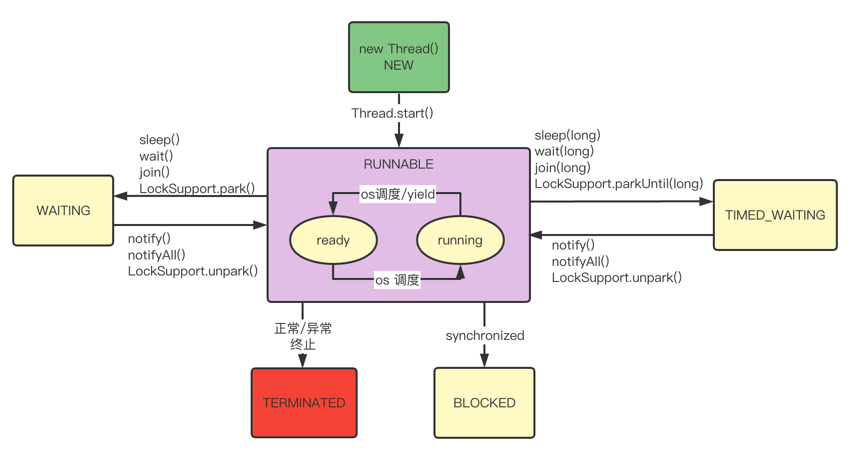
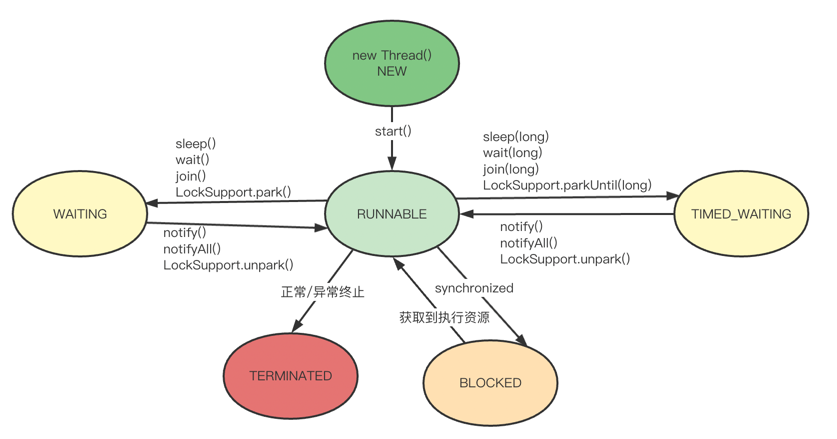
线程

Changed region(s): [[0.0, 0.0296, 0.994, 0.9772]]

diff --git a/_posts/2022-10-15-thread.md b/_posts/2022-10-15-thread.md
@@ -1,9 +1,9 @@
 ---
 layout: post
-title: Java 线程，那个似懂非懂的概念，程序员必看！
+title: Java 线程到底是怎样工作的？程序员必看的知识点！
 category: java
 tags: [java,interview]
-excerpt:  Java 线程，那个似懂非懂的概念，程序员必看！
+excerpt:  Java 线程到底是怎样工作的？程序员必看的知识点！
 keywords: 线程,java线程,线程中断
 ---
 
@@ -145,20 +145,6 @@ MyThread implements Callable!
 
 ## 线程的状态
 
-在讲解 Java线程的状态之前，我们先看下操作系统的线程状态及其关系：
-在上文维基百科对线程的描述里提到，现代操作系统，线程是被视为轻量级进程的，因此，在操作系统中，线程的状态和进程的状态是一致的，共有
-5种状态，状态说明及关系如下：
-
-- new：新建状态，线程刚创建未开始的状态；
-- ready：就绪状态，线程正在等待使用CPU，经调度程序调用之后可进入running状态；
-- running：执行状态，线程正在使用CPU；
-- waiting：等待状态，线程经过等待事件的调用或者正在等待其他资源（如I/O）；
-- terminated：终止状态，线程正常或异常执行完成；
-
-![img.png](https://yuanjava.cn/assets/md/java/os-thread-state.png)
-
-分析了操作系统中线程的状态，接下来分析Java中的线程状态，看看他们之间有何关系。
-
 在 Java中，线程的状态，也叫线程生命周期，主要有 6种，其源码如下：
 
 ```java
@@ -259,13 +245,12 @@ public class ThreadBlocked extends Thread {
 
 ### TERMINATED
 
-TERMINATED：已终止线程的线程状态。 代表线程已完成执行。
+TERMINATED：已终止状态，代表线程已完成执行。
 
-通过上述对操作系统和Java线程的分析，我们可以把 Java中线程的 6种状态及其转换关系总结如下图：
+
+通过上文的分析，我们可以把 6种状态及其转换关系总结如下图：
 
 ![img.png](https://yuanjava.cn/assets/md/java/thread-state.png)
-
-因此，Java中的线程状态，除了 RUNNABLE状态包括了操作系统线程的 ready和 running，其他状态是一一对应的。
 
 
 ## 线程的工作原理
@@ -327,7 +312,7 @@ TERMINATED：已终止线程的线程状态。 代表线程已完成执行。
 ### 停止线程
 
 
-想必大家很自然就会想到 Thread.stop()，不过，很遗憾的是，Thread.stop() 从JDK 1.2就已经被废弃了，主要是因为该方法本质上是不安全的，使用它来停止线程会导致所有已锁定的监视器都被解锁，因此推荐使用 Thread.interrupt()来中断线程。
+想必大家很自然就会想到 Thread.stop()或者 Thread.suspend()，不过，很遗憾的是，Thread.stop() 和 Thread.suspend() 从JDK 1.2就已经被废弃了，主要是因为方法本质上是不安全的，使用它来停止线程会导致所有已锁定的监视器都被解锁，因此推荐使用 Thread.interrupt()来中断线程。
 
 interrupt()方法两个重要作用：
 
